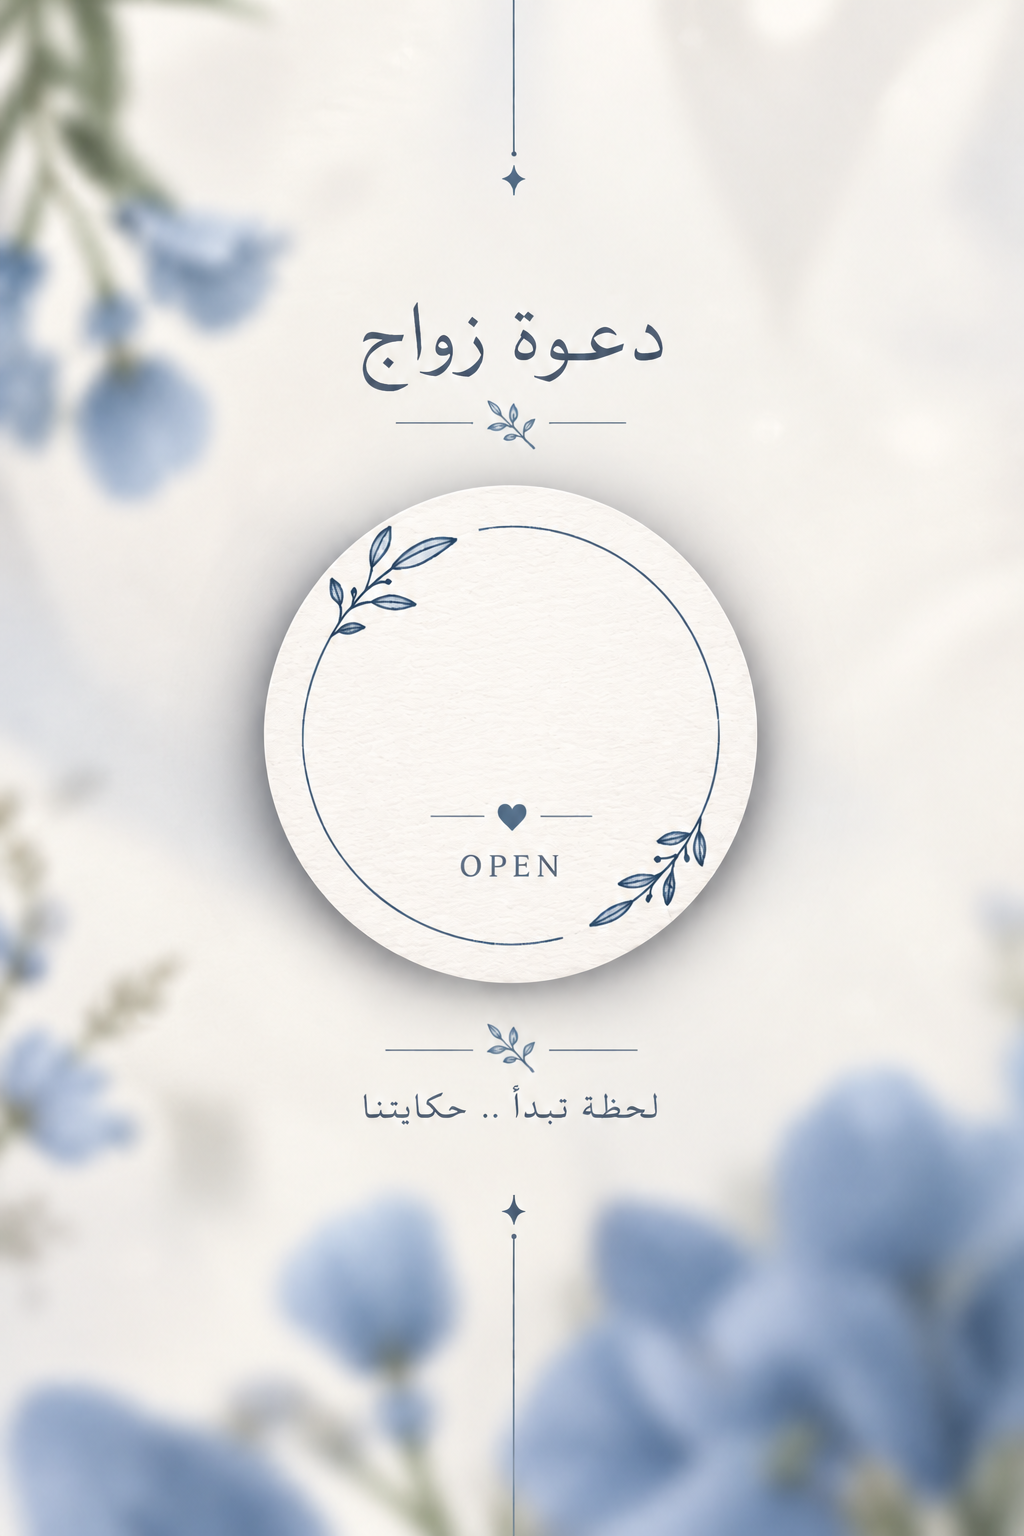
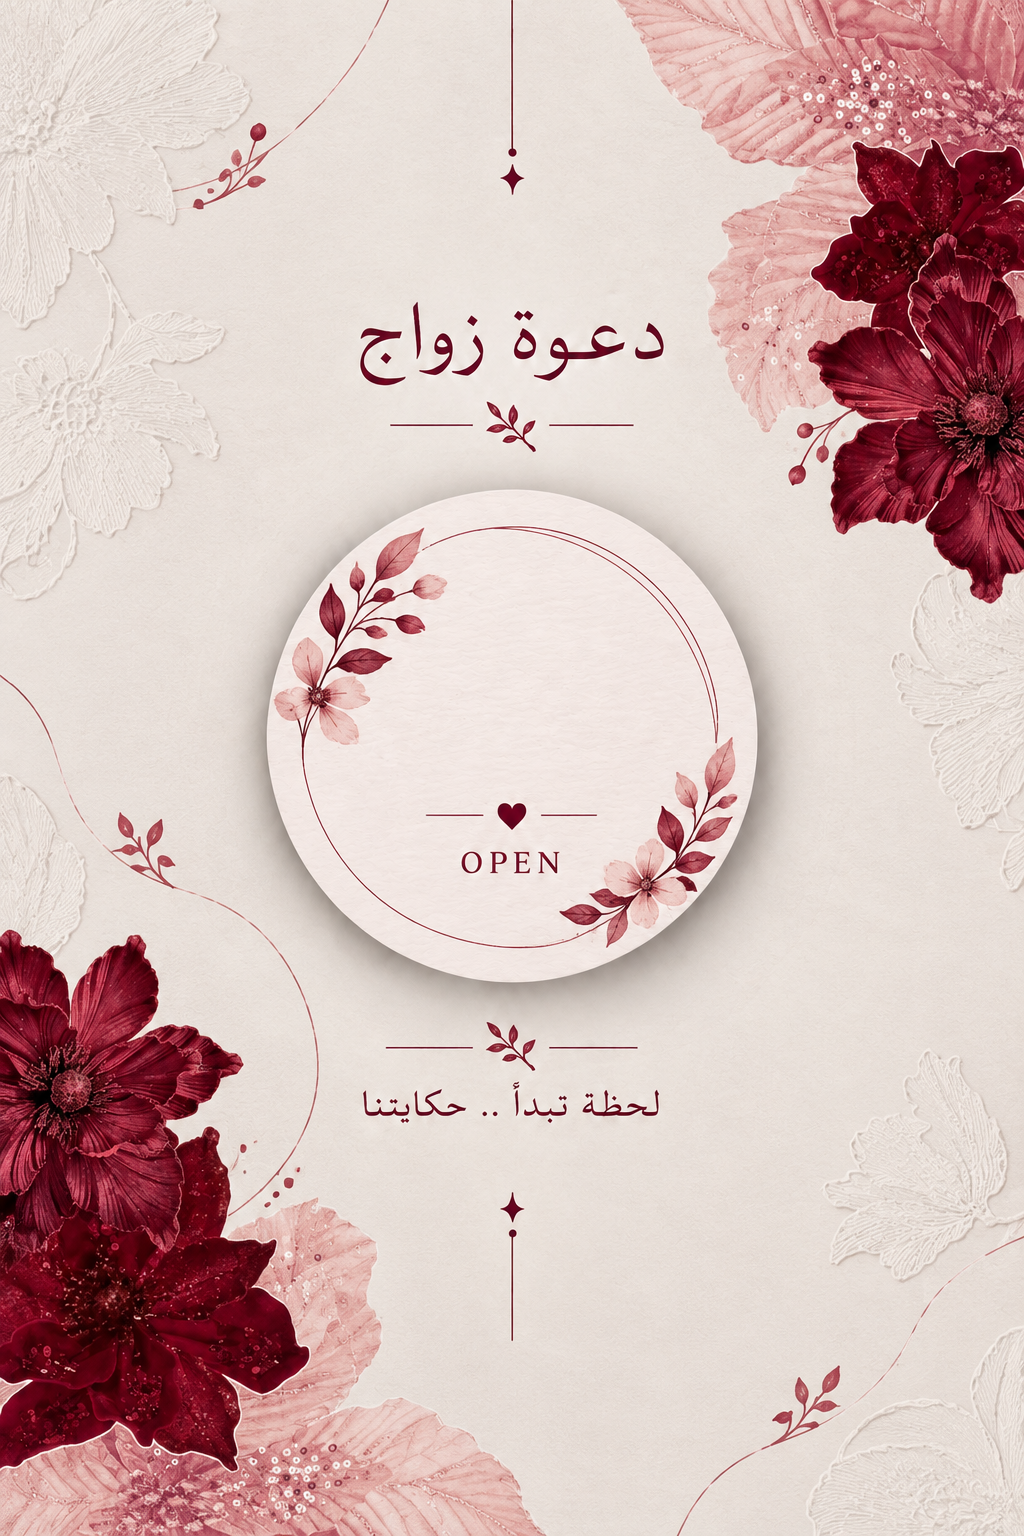
Update invitation design and names

diff --git a/src/components/Invitation.tsx b/src/components/Invitation.tsx
@@ -218,7 +218,7 @@ export default function Invitation() {
         leading-relaxed
       "
     >
-      آل عبدالسميع عامر عبدالعزيز
+      آل عبد السميع عامر الجعفري
     </div>
 
     {/* Decorative bottom */}
@@ -330,7 +330,7 @@ export default function Invitation() {
         tracking-tight
       "
     >
-      أمجد
+      م. أمجد
     </h1>
 
     {/* & */}
@@ -381,7 +381,7 @@ export default function Invitation() {
         tracking-tight
       "
     >
-      عائشة
+      د. عائشة
     </h1>
 
     {/* Bottom decoration */}
@@ -487,7 +487,7 @@ export default function Invitation() {
           </div>
 
           <p className="font-arabic text-lg sm:text-2xl text-brand-primary font-medium mb-8 leading-relaxed max-w-lg px-4">
-            بكل الحب ننتظركم لتشاركونا فرحتنا يوم الجمعة 15 اكتوبر 2026
+            بكل الحب ننتظركم لتشاركونا فرحتنا يوم الخميس 15 اكتوبر 2026
             <br />
             في قاعة الماسة البيضاء.
           </p>
@@ -618,7 +618,7 @@ export default function Invitation() {
         text-brand-accent
       "
     >
-      الجمعة 15 اكتوبر 2026
+      الخميس 15 اكتوبر 2026
       <br />
       الساعة 8:00 مساءً
     </span>

diff --git a/src/components/Cover.tsx b/src/components/Cover.tsx
@@ -275,7 +275,7 @@ export default function Cover({ onOpen }: CoverProps) {
                 z-10
               "
             >
-              أمجد
+              م.أمجد
             </motion.span>
 
             {/* & */}
@@ -332,7 +332,7 @@ export default function Cover({ onOpen }: CoverProps) {
                 z-10
               "
             >
-              عائشة
+              د.عائشة
               <br />
               <br />
               <br />
